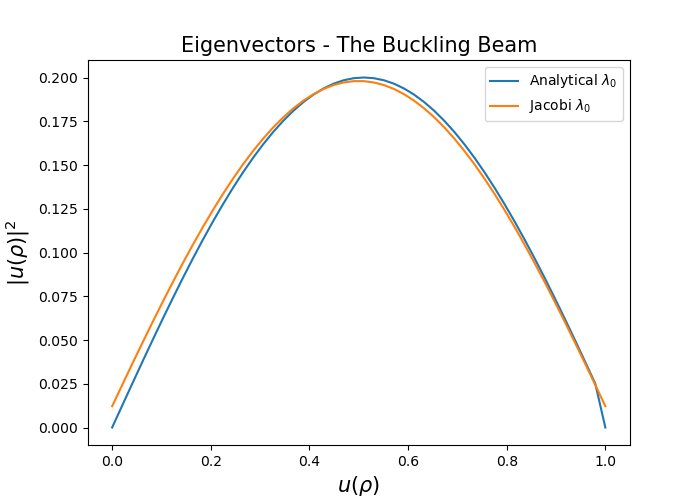
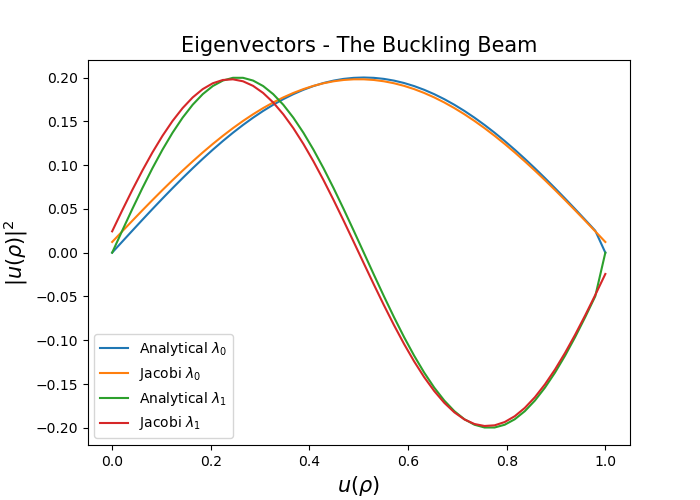
heatmap, some fixes..

diff --git a/Project2/prosjekt2.py b/Project2/prosjekt2.py
@@ -279,14 +279,15 @@ def N_rho(N, rho0, rhoN_list, h, diag, non_diag):
     """
 
     # Analytical eigenvalues
-    lam_eigen = [3., 7, 11, 15]
-    errors    = []
-    err       = np.zeros((10,10))
+    lam_eigen = [3, 7, 11, 15]
+    err       = np.zeros((len(rhoN_list),len(N_list)))
 
     for i in range(len(rhoN_list)):
         for j in range(len(N_list)):
 
             h_new = (rhoN_list[i] - rho0)/N_list[j]
+            diag     = 2/h**2   		# diagonal elements
+            non_diag = -1/h**2  		# non-diagonal elements
 
             rho_values = rho(N_list[j], rho0, rhoN_list[i], h_new, electron=1)
             new_diag   = diag+rho_values
@@ -299,16 +300,23 @@ def N_rho(N, rho0, rhoN_list, h, diag, non_diag):
             #sys.exit(1)
 
             #print(EigVal_np[0])
-            #err[i,j] = np.mean(abs(EigVal_np-real_lambdas(np.arange(N_list[j])))) # or max????
-            err[i,j] = abs(EigVal_np[0] - lam_eigen[0])
+            #err[i,j] = np.max(abs(EigVal_np-real_lambdas(np.arange(N_list[j])))) # or mean????
+            #err[i,j] = abs(EigVal_np[0] - lam_eigen[0])
+            err[i,j] = np.mean(abs(EigVal_np[:4] - lam_eigen))
+
             #print(err[i,j])
 
-    print('hi')
     #print(err[:,0])
+    err = np.log10(err)
+    max_ = np.max(err).round(0)  # = 3
     fig, ax = plt.subplots()
-    ax      = sns.heatmap(err, xticklabels=N_list, yticklabels=rhoN_list)
+    ax      = sns.heatmap(err, xticklabels=rhoN_list, yticklabels=N_list, vmin=0, vmax=max_)
     ax.invert_yaxis()
     #plt.imshow(err, origin='lower', extent=[20,200,10,100])#, extent=[20,200,10,100])
+    plt.title('Logarithmic Mean Error')
+    plt.xlabel(r'$\rho_N$')
+    plt.ylabel(r'$N$')
+    plt.savefig('Results/N_rhoN_heatmap.png')
     plt.show()
 
 if __name__ == "__main__":
@@ -337,18 +345,9 @@ if __name__ == "__main__":
 	QuantumMechanics   = args.quantum
 	n_electrons        = args.e
 
-
-	N 	   	 = 50             	# matrix dimension (N=4 does not work. Need to fix?) Quantum: 400
-	max_it 	 = 2*N**2     		# max iterations
-
-	rho0   	 = 0            	# rho min
-	rhoN   	 = 1           		# rho max  morten uses 10 in 2d, why??
-
-	h      	 = (rhoN-rho0)/N   	# step length (h = rhoN/(N+1))  ish 0.025 for quantum
-	diag     = 2/h**2   		# diagonal elements
-	non_diag = -1/h**2  		# non-diagonal elements
-
-	optional_values = True
+	#######################
+	optional_values = False
+	#######################
 
 	if BucklingBeam:
 		print('\nThe buckling beam problem\n')  # exercise 2b
@@ -360,6 +359,14 @@ if __name__ == "__main__":
 
 		else:
 
+			N 	   	 = 50             	# matrix dimension
+			max_it 	 = 2*N**2     		# max iterations
+			rho0   	 = 0            	# rho min
+			rhoN   	 = 1           		# rho max
+			h      	 = (rhoN-rho0)/N   	# step length (h = rhoN/(N+1))
+			diag     = 2/h**2   		# diagonal elements
+			non_diag = -1/h**2  		# non-diagonal elements
+
 			A = Toeplitz(N, diag, non_diag)
 
 			# Calculate analytical eigenpairs
@@ -370,17 +377,27 @@ if __name__ == "__main__":
 	if QuantumMechanics:
 		print('\nQuantum dots in 3 dimensions')
 
+		N 	   	 = 75             	# matrix dimension
+		max_it 	 = 2*N**2     		# max iterations
+		rho0   	 = 0            	# rho min
+		rhoN   	 = 7           		# rho max
+		h      	 = (rhoN-rho0)/N   	# step length (h = rhoN/(N+1))
+		diag     = 2/h**2   		# diagonal elements
+		non_diag = -1/h**2  		# non-diagonal elements
+
 		# exercise 2d, 'hydrogen'?
 		if n_electrons == 1:
 			print('-- one electron\n')
 
 			if optional_values:
 				### DOES NOT WORK......(yet!) ###
-				rhoN_list = np.linspace(1,100,10).astype(int)
-				N_list = np.linspace(20, 200, 10).astype(int)
+				rhoN_list = np.linspace(1,10,10).astype(int)
+				N_list = np.linspace(25, 250, 10).astype(int)
 				N_rho(N_list, rho0, rhoN_list, h, diag, non_diag)
+				sys.exit()
 
 			else:
+
 				rho_values = rho(N, rho0, rhoN, h, electron=1)
 				new_diag   = diag+rho_values
 				A 		   = Toeplitz(N, new_diag, non_diag)
@@ -403,14 +420,25 @@ if __name__ == "__main__":
 				A          = Toeplitz(N, new_diag, non_diag)
 
 				# we should probably switch this out with Jacobi????
-				EigVal_np, EigVec_np, numpy_cpu = EigenPairsNumpy(A)
+				#EigVal_np, EigVec_np, numpy_cpu = EigenPairsNumpy(A)
+				# only interested in lowest states
+				#EigVec_lowest.append(EigVec_np[:,0])
+
+				# Calculate eigenpairs with Jacobi and sort
+				EigVal, EigVec, iterations, cpu = Jacobi(A, N, epsilon=1e-8, max_it=max_it)
+				EigVal_Jac, EigVec_Jac          = SortEigenpairs(EigVal, EigVec)
 
 				# only interested in lowest states
-				EigVec_lowest.append(EigVec_np[:,0])
+				EigVec_lowest.append(EigVec_Jac[:,0])
 
 			EigVec_lowest = np.array(EigVec_lowest)
-			labels = [r'$\omega =0.01$', r'$\omega =0.25$', r'$\omega =0.5$', r'$\omega =1$', r'$\omega =5$']
-			plot_eigenvectors(rho0, rhoN, N, EigVec_lowest**2, labels=labels)
+			labels = [r'$\lambda_0, \omega =0.01$', 
+					  r'$\lambda_0, \omega =0.25$',
+					  r'$\lambda_0, \omega =0.5$',
+					  r'$\lambda_0, \omega =1$',
+					  r'$\lambda_0, \omega =5$']
+			method = 'Quantum dots in 3D (two particles)'
+			plot_eigenvectors(rho0, rhoN, N, EigVec_lowest**2, method=method, labels=labels)
 			sys.exit()
 
 
@@ -430,6 +458,15 @@ if __name__ == "__main__":
 		FirstEigVec_analytical = u_eigen[1,:]
 		FirstEigVec_Jacobi     = EigVec_Jac[:,0]
 
-		eigenvectors = np.array([FirstEigVec_analytical, FirstEigVec_Jacobi])
-		labels = [r'Analytical $\lambda_0$', r'Jacobi $\lambda_0$']
+		SecondEigVec_analytical = u_eigen[2,:]
+		SecondEigVec_Jacobi     = EigVec_Jac[:,1]
+
+		eigenvectors = np.array([FirstEigVec_analytical,
+								 FirstEigVec_Jacobi,
+								 SecondEigVec_analytical,
+								 SecondEigVec_Jacobi])
+		labels = [r'Analytical $\lambda_0$',
+		          r'Jacobi $\lambda_0$',
+		          r'Analytical $\lambda_1$',
+		          r'Jacobi $\lambda_1$']
 		plot_eigenvectors(rho0, rhoN, N, eigenvectors, method='The Buckling Beam', labels=labels, save=True)
